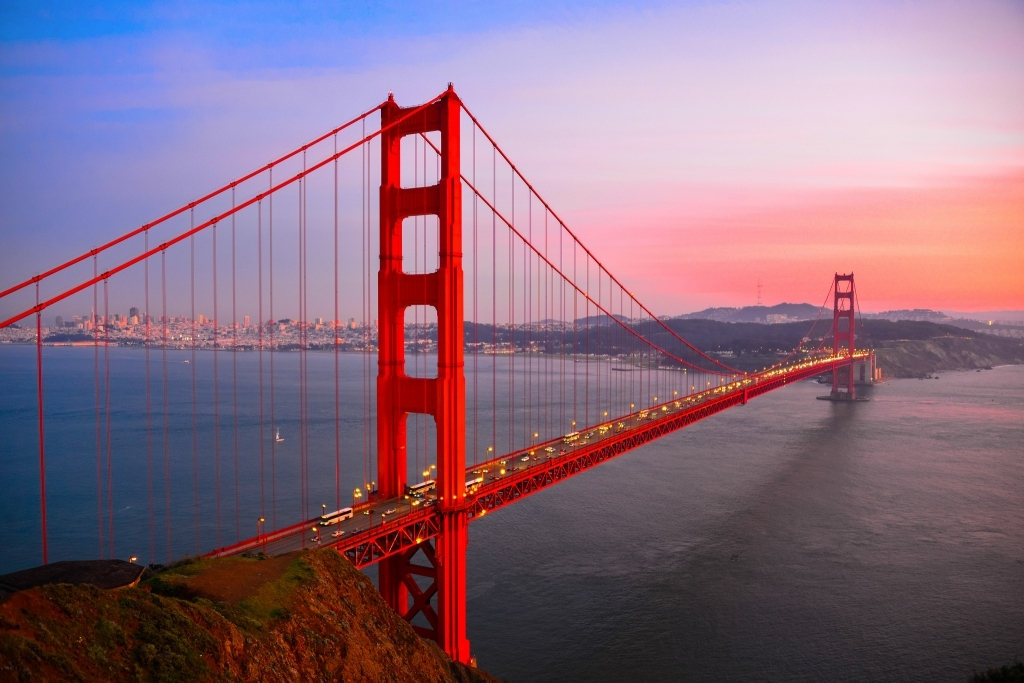
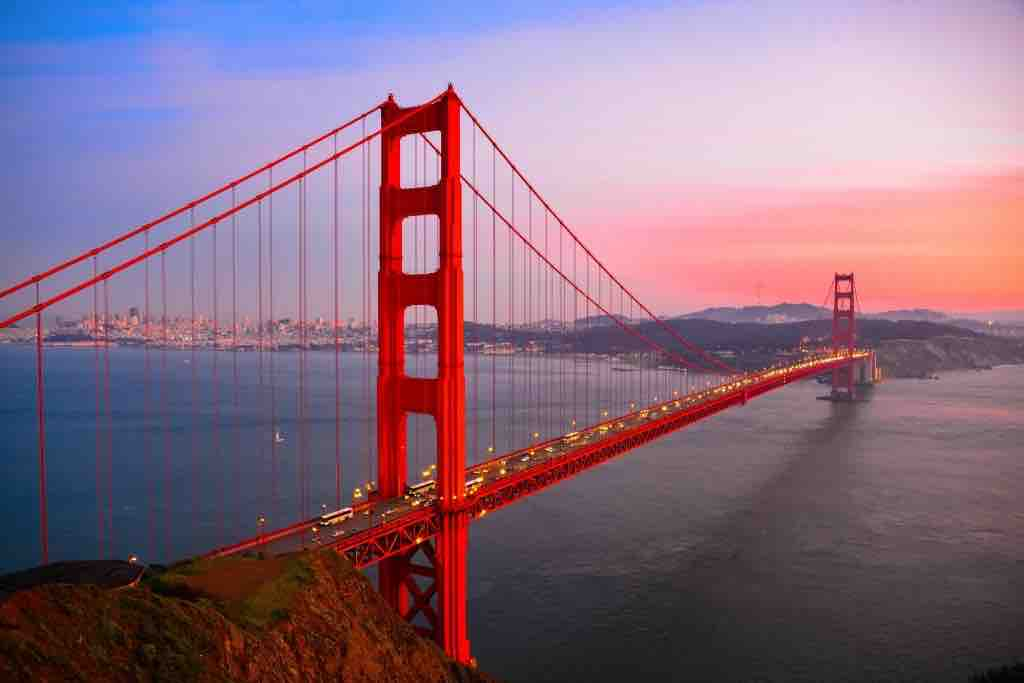
jpeg compress

diff --git a/app/statics/css/computer.css b/app/statics/css/computer.css
@@ -1107,7 +1107,7 @@
 .why-guide .left{
 	width: 57%;
 	height: 450px;
-	background: url(../images/why2.jpeg);
+	background: url(../images/why2.jpg);
 	-webkit-background-size: cover;
 	background-size: cover;
 	background-position: 50% 50%;
@@ -2141,7 +2141,7 @@
 	.why-guide .left-m{
 		width: 100%;
 		height: 4.1rem;
-		background: url(../images/why2-m.jpeg);
+		background: url(../images/why2-m.jpg);
 		-webkit-background-size: cover;
 		background-size: cover;
 		background-position: 50% 50%;
